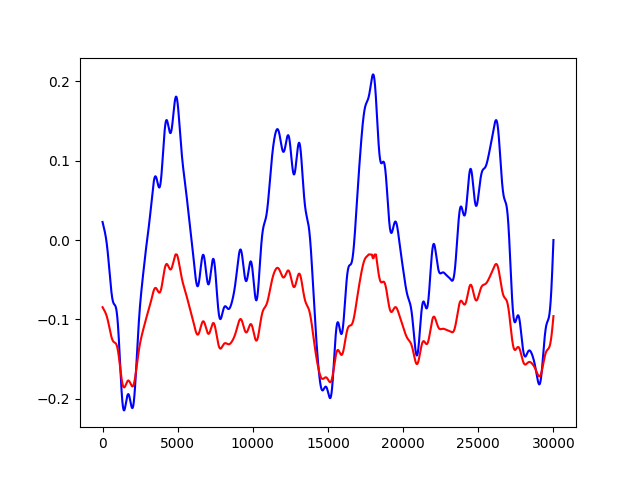
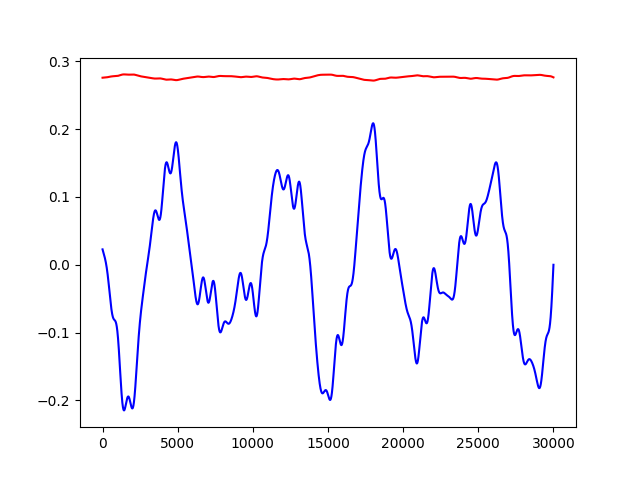
add

diff --git a/utils.py b/utils.py
@@ -13,40 +13,54 @@ class DATASETS:
         self.model_type = model_type
 
     def make(self, rawdata):
-        test_size = 0.3
-        X, y = [], []
+        rawdata_len = len(rawdata) - self.seq_len
+        train_size = 0.7
+        self.train_len = int(rawdata_len * train_size)
+        self.test_len = rawdata_len - self.train_len
+
         if self.model_type == 'cnn':
-            for i in range(len(rawdata)-self.seq_len):
-                X.append(rawdata[i:i+self.seq_len])
-                y.append(rawdata[i+self.seq_len])
+            X_train = np.array([rawdata[i:i+self.seq_len]
+                    for i in range(self.train_len)], dtype="float32")
+            y_train = np.array([rawdata[i+self.seq_len]
+                    for i in range(self.train_len)], dtype="float32")
         else:
-            for i in range(len(rawdata)-self.seq_len):
-                X.append(rawdata[i:i+self.seq_len])
-                y.append(rawdata[i+1:i+self.seq_len+1])
+            X_train = np.array([rawdata[i:i+self.seq_len]
+                    for i in range(self.train_len)], dtype="float32")
+            y_train = np.array([rawdata[i+1:i+self.seq_len+1]
+                    for i in range(self.train_len)], dtype="float32")
+        
+        X_test = np.array([rawdata[i:i+self.seq_len]
+                for i in range(self.train_len, rawdata_len)], dtype="float32")
+        y_test = np.array([rawdata[i+self.seq_len]
+                for i in range(self.train_len, rawdata_len)], dtype="float32")
 
-        X = np.array(X, dtype="float32")
-        y = np.array(y, dtype="float32")
-        (X_train, X_test, y_train, y_test) = \
-                train_test_split(X, y, test_size=test_size, shuffle=False)
-        self.N_train = len(X_train)
-        N_test = len(X_test)
-
-        return X_train, X_test, y_train, y_test, self.N_train, N_test
+        return X_train, y_train, X_test, y_test
 
 
     def mini_traindata(self, X_train, y_train):
         X_train_mini, y_train_mini = [], []
         for i in range(self.batch_size):
-            index = np.random.randint(0, self.N_train)
+            index = np.random.randint(0, self.train_len)
             X_train_mini.append(X_train[index])
             y_train_mini.append(y_train[index])
         X_train_mini = np.array(X_train_mini, dtype="float32")
-        X_train_mini = X_train_mini.reshape(self.seq_len, self.batch_size, self.input_size)
-        # X_train_mini = np.array(X_train_mini, dtype="float32").reshape(self.batch_size,self.seq_len, self.input_size)
+        X_train_mini = X_train_mini.T.reshape(self.seq_len, self.batch_size, self.input_size)
         # X_train_mini = np.array(X_train_mini, dtype="float32").reshape(self.batch_size, self.input_size, self.seq_len)
         y_train_mini = np.array(y_train_mini, dtype="float32")
 
         return X_train_mini, y_train_mini
+
+    def make_testdata(self, X_train, y_train, X_test, y_test):
+        X_train = X_train.T.reshape(self.seq_len, self.train_len, self.input_size)
+        if self.model_type == 'cnn':
+            y_train = y_train
+        else:
+            y_train = y_train[:, self.seq_len - 1]
+
+        X_test = X_test.T.reshape(self.seq_len, self.test_len, self.input_size)
+        y_test = y_test
+
+        return X_train, y_train, X_test, y_test
 
 
 def mse(y_train, y_train_pred, y_test, y_test_pred):

diff --git a/main.py b/main.py
@@ -60,7 +60,7 @@ def models():
 
 def train(rawdata, data_num):
     datasets = DATASETS(SEQ_LEN, BATCH_SIZE, INPUT_SIZE, opt.model)
-    X_train, X_test, y_train, y_test, N_train, N_test = datasets.make(rawdata)
+    X_train, y_train, X_test, y_test = datasets.make(rawdata)
     print(X_train.shape)
     print(X_test.shape)
     model = models()
@@ -89,27 +89,21 @@ def train(rawdata, data_num):
     # test
     # ----------
     print('\nTest')
-    # x = Variable(torch.from_numpy(X_train.T.reshape(SEQ_LEN, N_train, 1)))
-    # y_pred_1 = model(x).data.numpy()[SEQ_LEN-1, :, :].reshape(-1)
-    # x = Variable(torch.from_numpy(X_test.T.reshape(SEQ_LEN, N_test, 1)))
-    # y_pred_2 = model(x).data.numpy()[SEQ_LEN-1, :, :].reshape(-1)
-    #
-    # y = np.r_[y_pred_1, y_pred_2]
-    # plt.plot(rawdata[SEQ_LEN:], color='blue')
-    # plt.plot(y, color='r')
-    # plt.vlines(N_train-SEQ_LEN, -0.5, 0.5)
-
-    print(y_test.shape)
-    x = Variable(torch.from_numpy(X_test.reshape(SEQ_LEN, N_test, INPUT_SIZE)))
-    # x = Variable(torch.from_numpy(X_test.reshape(N_test, INPUT_SIZE, SEQ_LEN)))
-    y_test_pred = model(x).data.numpy().reshape(-1)
-    # y_test_pred = model(x).data.numpy()
-    # y_test_pred = model(x).data.numpy()[SEQ_LEN-1, :, :].reshape(-1)
-    print(y_test_pred.shape)
-    # plt.plot(y_test[:, SEQ_LEN-1], color='blue')
+    X_train, y_train, X_test, y_test = \
+            datasets.make_testdata(X_train, y_train, X_test, y_test)
+    X_train = Variable(torch.from_numpy(X_train))
+    X_test = Variable(torch.from_numpy(X_test))
+    y_train_pred = model(X_train).data.numpy()
+    y_test_pred = model(X_test).data.numpy()
+    if opt.model == 'cnn':
+        y_train_pred = y_train_pred.reshape(-1)
+        y_test_pred = y_test_pred.reshape(-1)
+    else:
+        y_train_pred = y_train_pred[SEQ_LEN-1, :, :].reshape(-1)
+        y_test_pred = y_test_pred[SEQ_LEN-1, :, :].reshape(-1)
+    train_error, test_error = mse(y_train, y_train_pred, y_test, y_test_pred)
     plt.plot(y_test, color='blue')
     plt.plot(y_test_pred, color='red')
-
     figname = 'data' + str(data_num) + '.png'
     plt.savefig(os.path.join(RESULT_PATH, figname))
     plt.close()

diff --git a/models/torchqrnn/forget_mult.py b/models/torchqrnn/forget_mult.py
@@ -1,7 +1,7 @@
 import math
 import torch
 from torch.autograd import Variable
-from cupy.cuda import function
+# from cupy.cuda import function
 from pynvrtc.compiler import Program
 from collections import namedtuple
 
